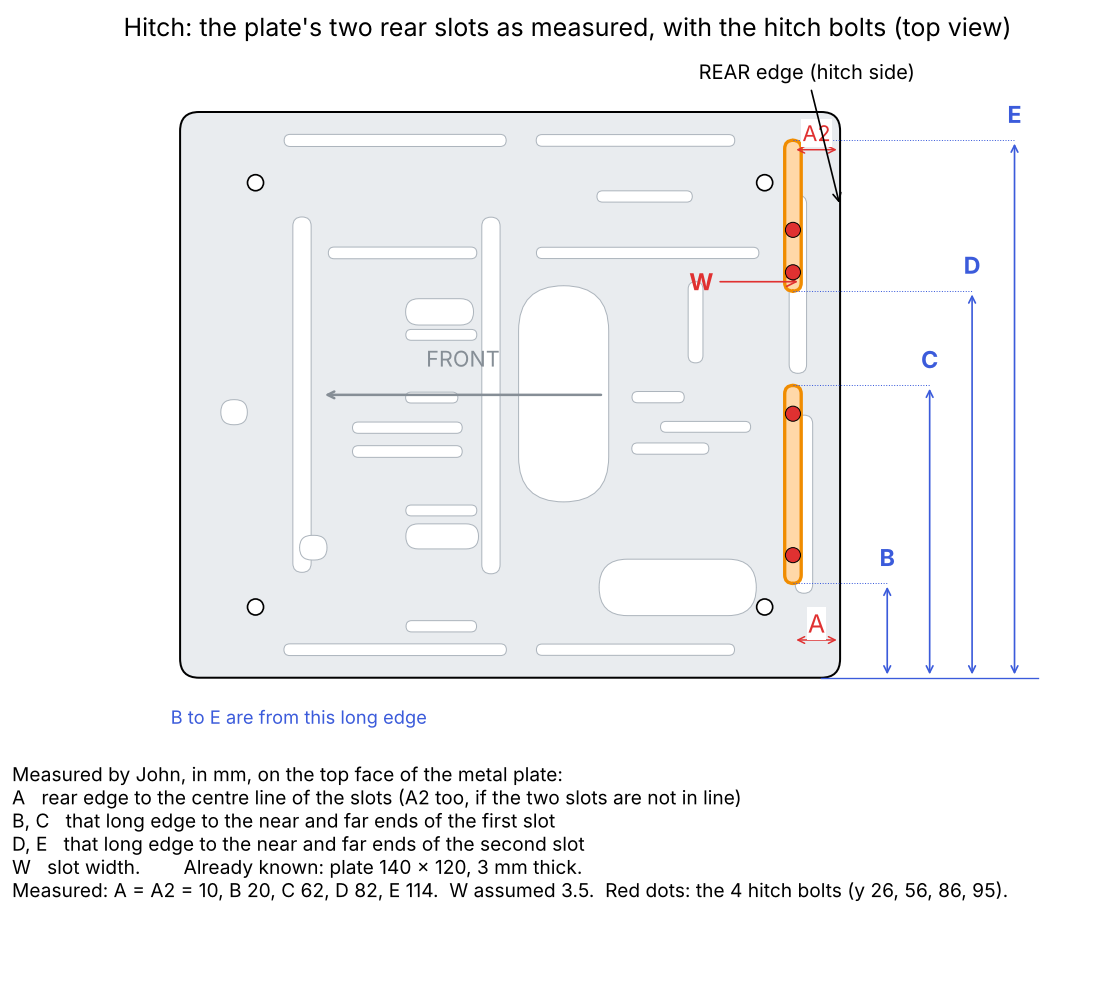
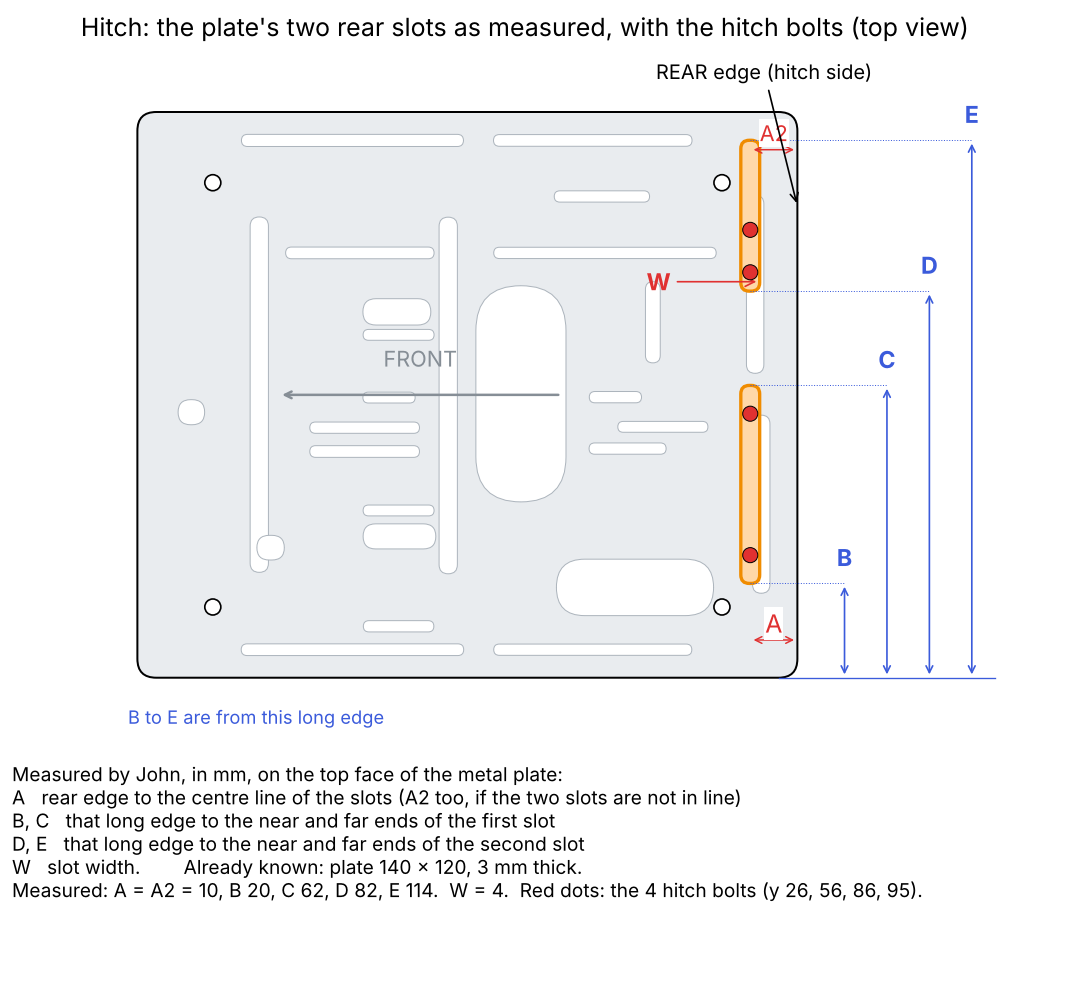
Slot width 4 mm (measured)
Claude-Session: https://claude.ai/code/session_011AZmCYsDWcDznu3RCMf8yA

diff --git a/CAD/DeckMount/drawings/make_drawings.py b/CAD/DeckMount/drawings/make_drawings.py
@@ -331,7 +331,7 @@ def slot_measure_drawing():
     fig, ax = plt.subplots(figsize=(11, 10))
     plate_outline(ax, fc="#e9ecef")
     sl = [(130.0, 20.0, 62.0), (130.0, 82.0, 114.0)]   # John measured 2026-11-25: (x centre, y start, y end)
-    w = 3.5   # not measured; an M3 must pass
+    w = 4.0   # John measured
     for x, y0, y1 in sl:
         ax.add_patch(FancyBboxPatch((x - w / 2, y0), w, y1 - y0, boxstyle="round,pad=0,rounding_size=1.8",
                                     fc="#ffd8a8", ec=ORANGE, lw=2))
@@ -362,7 +362,7 @@ def slot_measure_drawing():
             "B, C   that long edge to the near and far ends of the first slot\n"
             "D, E   that long edge to the near and far ends of the second slot\n"
             "W   slot width.        Already known: plate 140 x 120, 3 mm thick.\n"
-            "Measured: A = A2 = 10, B 20, C 62, D 82, E 114.  W assumed 3.5.  Red dots: the 4 hitch bolts (y 26, 56, 86, 95).",
+            "Measured: A = A2 = 10, B 20, C 62, D 82, E 114.  W = 4.  Red dots: the 4 hitch bolts (y 26, 56, 86, 95).",
             ha="center", va="top", fontsize=11.5, multialignment="left")
     ax.set_xlim(-12, PL + 55); ax.set_ylim(-62, PW + 14); ax.set_aspect("equal"); ax.axis("off")
     ax.set_title("Hitch: the plate's two rear slots as measured, with the hitch bolts (top view)", fontsize=15, loc="left")

diff --git a/CAD/DeckMount/README.md b/CAD/DeckMount/README.md
@@ -71,7 +71,7 @@ Source: `hitch.scad`. It works like a small tractor hitch, so any tool swaps by 
 | `hitch_drawbar.stl` | 1 | Trailer adapter |
 
 **Check before printing the hitch:**
-- The plate's rear slots are now measured (John, 2026-11-25): centre line 10 mm in from the rear edge, slots at 20 to 62 and 82 to 114 mm from the long edge. The 4 bolts sit at 26, 56, 86 and 95 mm, so the clamp still clears the rear corner standoffs. `images/15_measure_rear_slots.png` shows them. The slot width wasn't measured; an M3 screw just has to pass through.
+- The plate's rear slots are now measured (John, 2026-11-25): centre line 10 mm in from the rear edge, slots at 20 to 62 and 82 to 114 mm from the long edge. The 4 bolts sit at 26, 56, 86 and 95 mm, so the clamp still clears the rear corner standoffs. `images/15_measure_rear_slots.png` shows them. The slots are 4 mm wide, so M3 screws pass with room to spare.
 - That nothing sits under the plate's rear 22 mm between the corner standoffs, above the lower chassis.
 - The plate thickness is 3 mm (measured).
 
